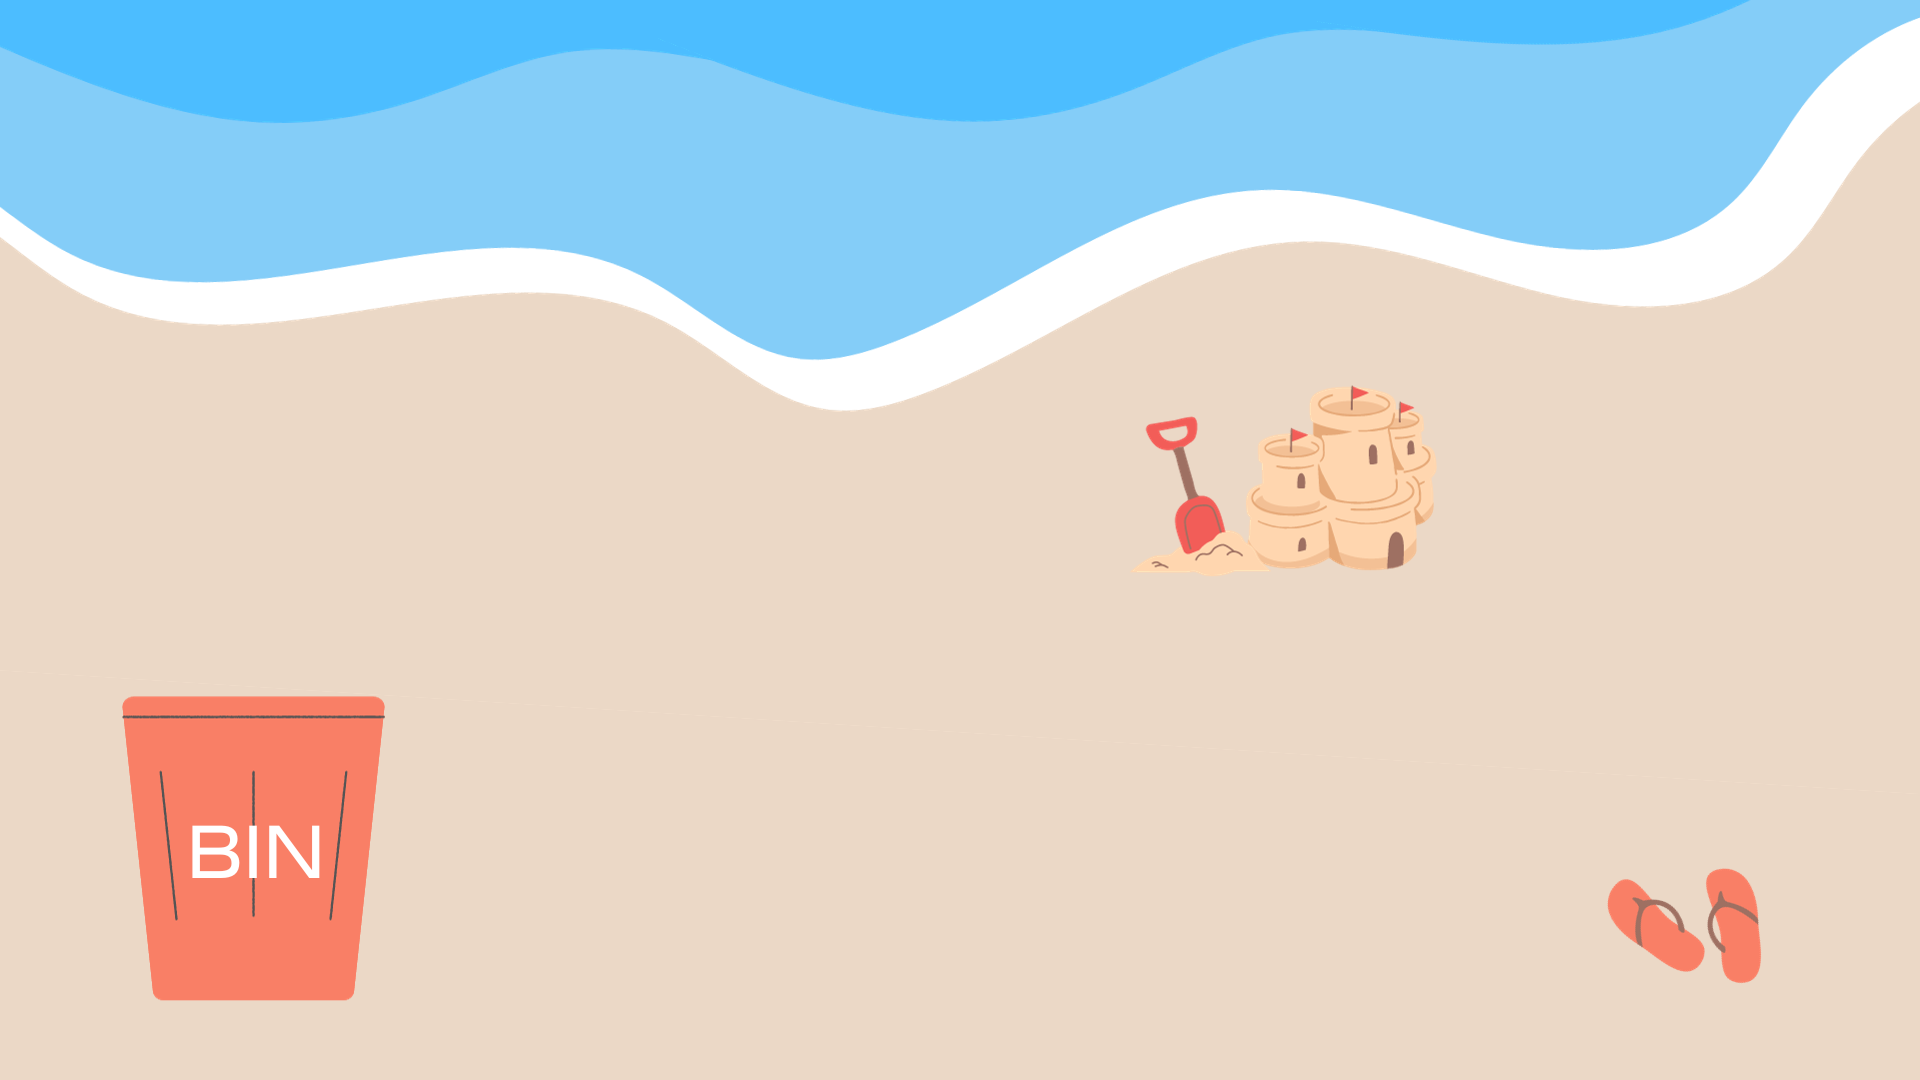
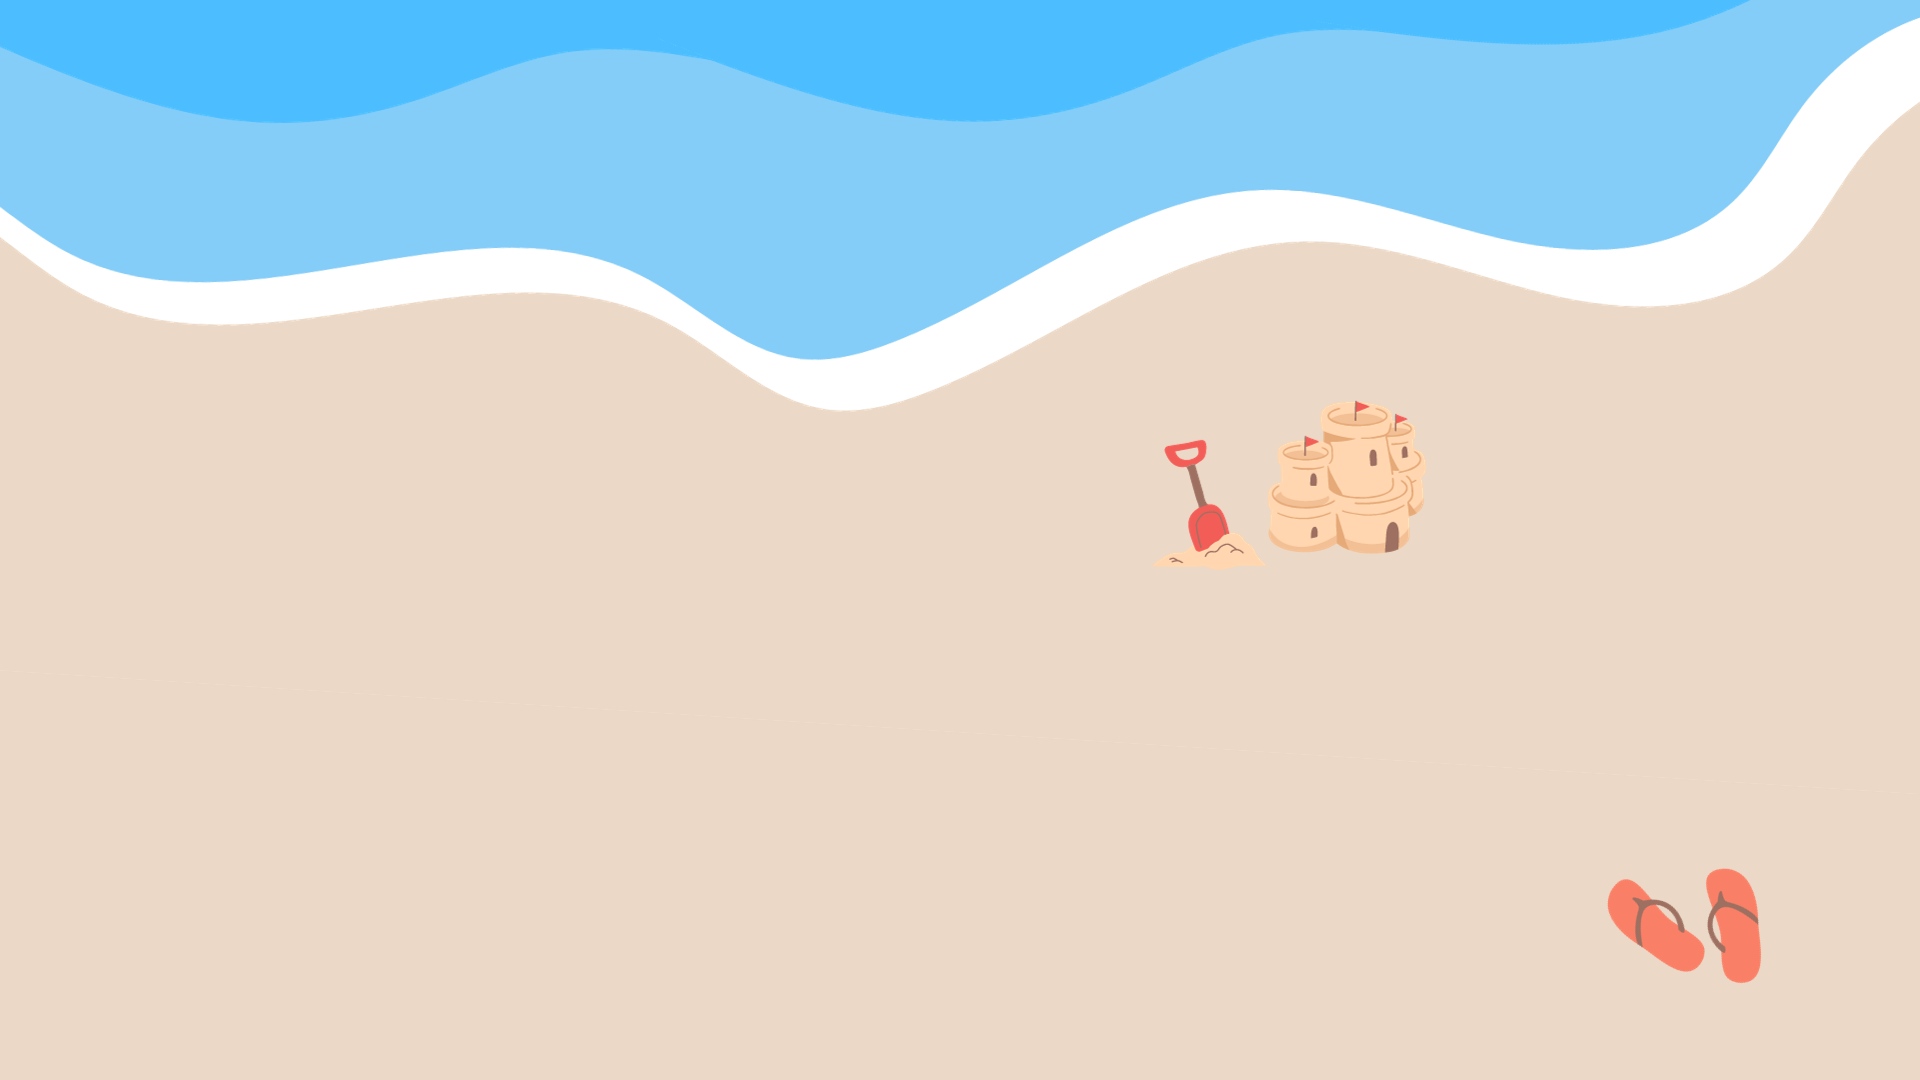
P1: Modified the background, cursor image

Changed region(s): [[0.0625, 0.6417, 0.2188, 0.9472], [0.5938, 0.3667, 0.75, 0.55]]

diff --git a/projects/project1/js/script.js b/projects/project1/js/script.js
@@ -13,6 +13,9 @@ let image2;
 let trashImages = []; // Array to store trash images
 let trashPositions = []; // Array to store trash positions
 let trashSize = 80; // Size of the trash images
+let binImage;
+let handImage; 
+
 
 "use strict";
 
@@ -25,7 +28,11 @@ function preload() {
     plantingBackground = loadImage("assets/images/garden.png"); // Load the planting background image
     image1 = loadImage("assets/images/optionone.png"); // Load the first image
     image2 = loadImage("assets/images/optiontwo.png"); // Load the second image
-    
+   
+    binImage = loadImage("assets/images/bin.png"); // Load the bin image)
+    handImage = loadImage("assets/images/hand.png");  // Load the hand image
+   
+
     //Trash1 image and its position
     trashImages.push(loadImage("assets/images/trash1.png"));
     trashPositions.push({ x: 150, y: 200 });
@@ -180,13 +187,24 @@ function draw() {
 
 
       function cleaning() {
+    
+    // Hide the default cursor
+    noCursor();
+
     // Draw the cleaning background image as the background
     image(cleaningBackground, 0, 0, width, height);
+
+  
+    //Display bin
+    image(binImage, 80, 360, 200, 200);
 
      // Display each trash image at its specified position
   for (let i = 0; i < trashImages.length; i++) {
     image(trashImages[i], trashPositions[i].x, trashPositions[i].y, trashSize, trashSize);
   }
+
+     // Use the user's mouse position to display the hand image
+     image(handImage, mouseX, mouseY, 100, 100);
 }  
 
 
